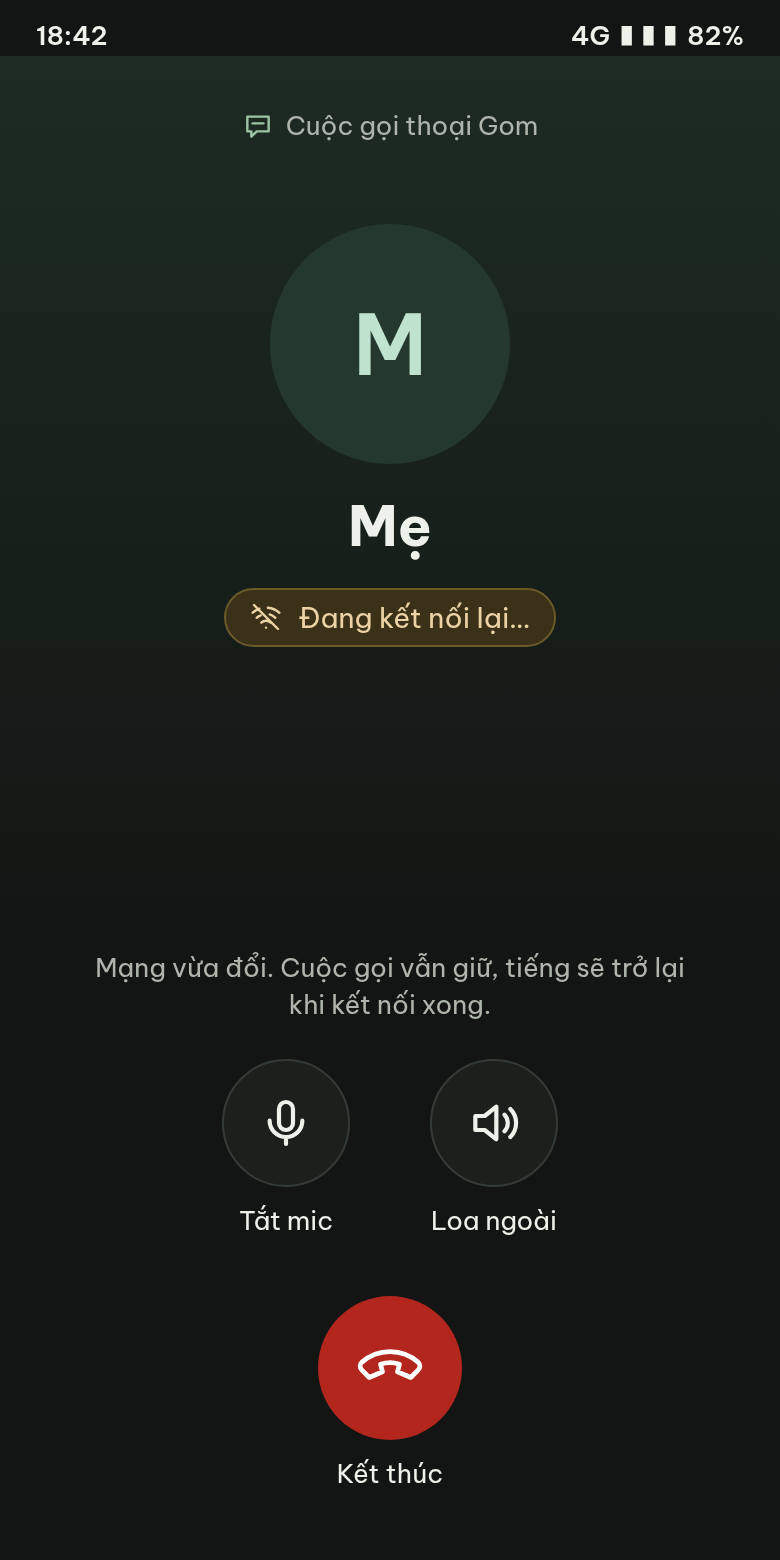
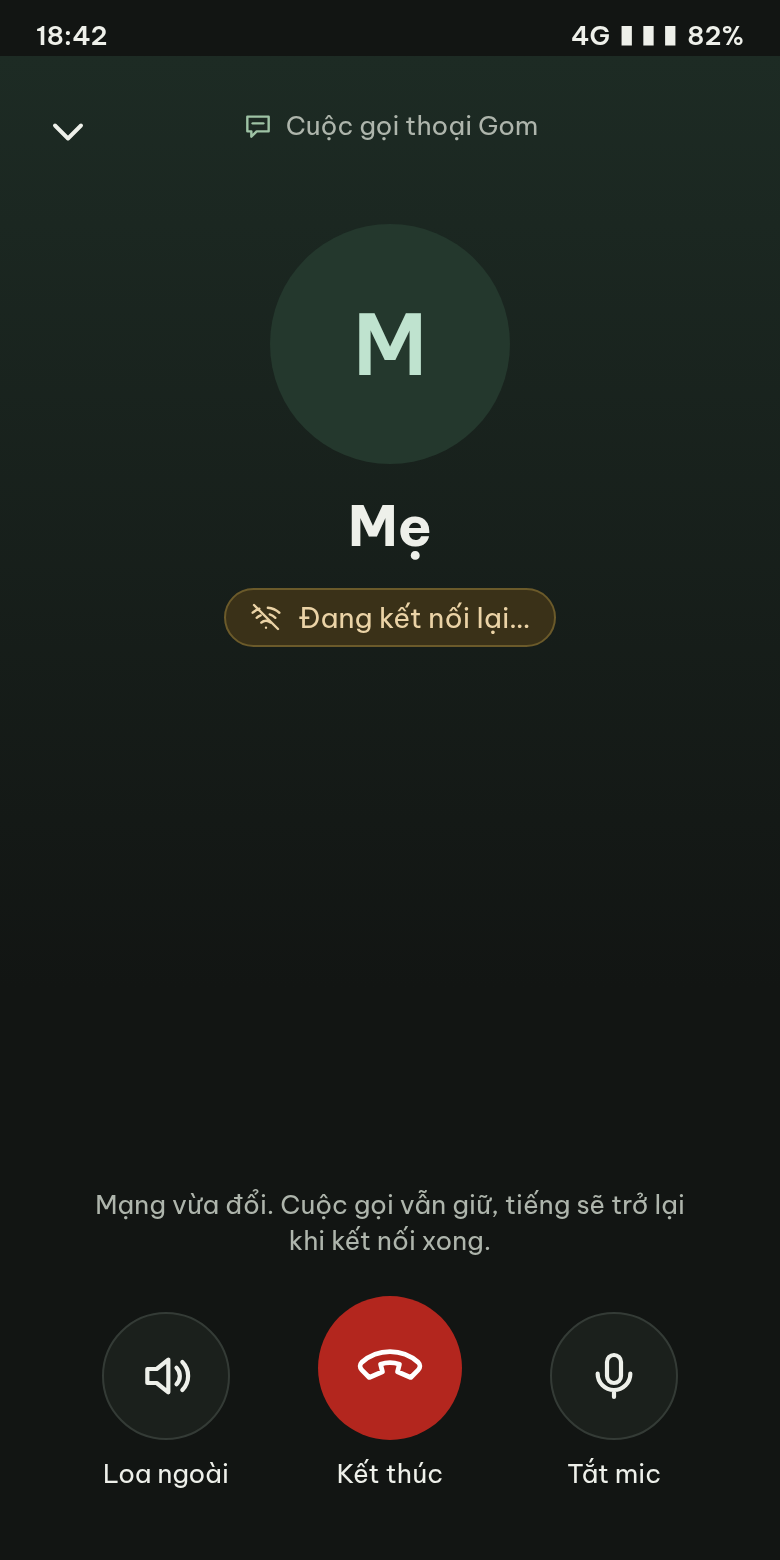
Web call mockups: one row of call buttons, the call bar, screens 31 to 35
- design/source/calls.html: in a call, one row (speaker, end, mic; labels stay, a filled button is on); a minimise arrow;
  the web in a phone's browser and on a computer, ringing on a computer, and the call bar on a phone and a computer.
  Screens 21, 25, 26 and 27 exported again; 31 to 35 new, light and dark.
- design-notes.md rule 16, design/README.md.
- docs/voice-calls.md section 2b: calls on the web first, as agreed with H; PR order 8a to 8d. One line in decisions.md.

diff --git a/docs/voice-calls.md b/docs/voice-calls.md
@@ -33,7 +33,8 @@ A web page cannot make calls work like a phone's:
   audio routing, so no earpiece or Bluetooth choice); a Trusted Web Activity (Chrome's limits apply); React Native,
   Flutter or Compose Multiplatform (a rewrite of the interface, a weaker web version, and calls still need native code
   per platform; Compose Multiplatform's web target is Beta [stated: Kotlin docs]); a fully native app (three codebases).
-- **The web version stays** for iPhone and computers. Calls come to it later, working only while Gom is open.
+- **The web version stays** for iPhone and computers. Calls come to it now, before the app's, working only while Gom is open
+  (section 2b; H, 2026-11-26).
 
 Version 1 is **1:1 voice calls between friends**. Not in version 1: group calls (they need a media server, an SFU),
 video, recording, iPhone native.
@@ -148,6 +149,43 @@ video, recording, iPhone native.
 44. A device that registers for FCM stops its Web Push, so nothing arrives twice. The web half (the words in a
     notification) is built first, for browsers; this half comes with the app.
 
+## 2b. Calls on the web (agreed with H on 2026-11-26)
+
+H asked for web calls alongside the app. One call written in the page could also serve the app, with Kotlin keeping only what
+Android demands (the wake-up and full-screen ringing, Telecom, the phoneCall foreground service, the sound route). One open-source
+project showed a call in an app's web view under Telecom staying up five minutes with the screen off in Doze, on an Android 16
+emulator only (no real microphone, earpiece or Bluetooth) [stated: selfhost-unihub pull request 164, 22 November 2026]; whether
+a web view's call follows `setCommunicationDevice` is not known. So web calls come first, and a test on a Samsung phone decides
+the app's way.
+
+1. A person can be called while one of their pages that takes calls is open: the page says so as its socket connects
+   (`/ws?calls=1`, keeping the socket's rule of taking only "sync"). The app's FCM registration stops counting until the app
+   takes calls; until then the app's web view says nothing, shows no call button and ignores incoming calls (it has no
+   microphone permission). A closed tab does not ring; the missed-call notification still comes.
+2. Every page of the person that takes calls rings (decision 11): answering on one stops the others.
+3. Browsers on phones too, iPhone included; the call says "Giữ Gom trên màn hình trong lúc gọi", since a browser in the
+   background loses the microphone.
+4. `Permissions-Policy` becomes `microphone=(self)` (decision 42).
+5. Only the chat page takes calls; Settings, Friends, a group's page and the others are pages of their own, so going to one
+   ends a call. During a call the page's own update waits, leaving asks first (the browser's question), and a page closed
+   anyway hangs up on its way out so the other side is not left waiting.
+6. A ring made in the page (Web Audio, no sound file) and the tab's title; if the browser blocks the sound until the person has
+   touched the page, the ringing screen is still there.
+7. Each offer and answer waits up to 3 s for its addresses, then goes with what it has (no trickle ICE, as agreed in 2a).
+8. After a network change only the caller restarts the connection (`restartIce()` and a new offer through `/sdp`), when it
+   stays down about 2 s or fails, so the two never offer at once.
+9. At 2 h 50 min the page asks for a fresh relay login, applies it and restarts (decision 22).
+10. A microphone refused: "Gom cần micro để gọi" with how to allow it; the call does not start, or a ringing one is declined.
+11. With no relay set up, a direct connection only (decision 24); if that fails, "Không kết nối được".
+12. The screens: one row of three in a call (speaker, end, mic; the web has no speaker choice), a minimise arrow, and the call
+    bar across the top of the chat page (name, time, a crossed mic when muted, a red end button; a tap brings the call back).
+    Someone calling can minimise while it rings; an incoming call comes full size. Rule 16 of `design/design-notes.md`,
+    screens 21 to 35.
+13. In the app later, if its calls run in the web view, the same bar inside it; outside the app, Android's own ongoing-call
+    notification.
+
+Not known yet: whether Chrome and Samsung Internet on Android play a web call through the earpiece or the speaker.
+
 ## 3. Cloudflare TURN, the facts (docs updated June to November 2026 [verified: developers.cloudflare.com])
 
 - **Price:** $0.05 per GB, counting only what Cloudflare sends to the phones; the first 1,000 GB a month free, shared
@@ -214,7 +252,10 @@ video, recording, iPhone native.
 6. **Android, calls:** `core-telecom`, the WebRTC library, the phoneCall foreground service, the incoming full-screen
    screen, the call screen, ICE restart, renewing logins.
 7. **Android, release:** the Samsung sleep guide, the update check, the Play listing and declarations.
-8. **Later:** calls in the web version.
+8. **Web calls** (section 2b; H, 2026-11-26), before 6: **8a** the mockups (screens 31 to 35, the one-row buttons, the call
+   bar); **8b** the server: who can take a call; **8c** the page: calling, ringing, answering, the call screen; **8d** the page:
+   the call bar, the network-change restart, renewing relay logins. Then a release. Then a test APK on a Samsung phone,
+   never merged, decides whether the app's calls run in its web view or natively (6).
 
 ## 6. Checklist for each app build (on a Samsung phone)
 

diff --git a/design/design-notes.md b/design/design-notes.md
@@ -88,7 +88,7 @@ Be Vietnam Pro (400, 600, 700), self-hosted from `design/source/fonts/`. Body 15
 13. **Notifications** are per device, switched on in Settings, never on by default. A notification says who wrote and where and, unless the device chose less, the first 100 characters of the message (a sticker, pictures, videos or files: what kind); at the quietest level just "Tin nhắn mới". A message taken back replaces its notification. A muted conversation is silent; mute lasts a while or until turned back on.
 14. **The conversation menu** ("⋯" on a row, a right-click, or a finger held on a row for a second) is the person's own: pin to the top (five at most), mark read or unread (a mark only; the read position others may see never goes back), mute, make a group with this friend (one-to-one chats), hide until something new is said ("Hoàn tác" offered for a few seconds after; a search above the list still finds it under "Đã ẩn", and opening it, from there or anywhere else, brings it back), and delete for me (asked first; everything so far is gone for them alone). No categories, no "Khác" tab, no report: not needed at family size.
 15. **The owner's storage page** shows the disk, the database, and sizes by group, by sender, and for one-to-one chats only together (never who talks to whom). Trimming old pictures and files, or old messages, takes a preview and the word "Delete" typed; it is gone for good, backups included. A trimmed picture or file leaves "Ảnh/Tệp không còn khả dụng" in its message; each conversation that lost something gets a line saying so, naming nobody.
-16. **Voice calls (Android app; not built yet; plan in `docs/voice-calls.md`).** One-to-one, friends only, from the phone button in a friend's chat header; the web shows no button. The ringing, in-call and ended screens are the app's own and follow the theme (a sage tint at the top), with a red round button to end or decline and the button colour to answer, Decline on the left. Over the lock screen with the quietest notification level the name is hidden ("Cuộc gọi đến", "Mở khóa để xem ai gọi"). While the phone is in use, an incoming call is Android's own call notification: Gom sets only its name, picture and two buttons. With a headset connected, the sound button names where the sound goes and opens a choice (phone, speaker, headset). A network change shows "Đang kết nối lại…" in amber without ending the call. Each call leaves a card on the caller's side of the chat, worded for the one reading it: "Cuộc gọi thoại · 3:05"; to the caller "Không trả lời", "Cuộc gọi bị từ chối", "Máy bận"; to the person called "Cuộc gọi nhỡ" (red, unread, with "Gọi lại"; also for a call that found them busy) or "Bạn đã từ chối"; to both "Không kết nối được". Only a missed call offers "Gọi lại" on its card.
+16. **Voice calls (not built yet; plan in `docs/voice-calls.md`).** One-to-one, friends only, from the phone button in a friend's chat header. In the Android app; on the web while a Gom page is open (the chat page: going to another page ends the call, so it asks first). The ringing, in-call and ended screens follow the theme (a sage tint at the top), with a red round button to end or decline and the button colour to answer, Decline on the left. In a call one row of three: the speaker on the left (with a headset connected, its name, opening a choice of phone, speaker, headset), the red end button in the middle, the mic on the right; labels stay the same ("Loa ngoài", "Tắt mic") and a filled button is on. The web cannot choose the speaker, so its left place stays empty and end keeps the middle. A down arrow at the top left (or Android's back) minimises the call to a bar in the button colour across the top of the chat page, pushing it down: name, time, a crossed mic when muted, and a small red end button; a tap anywhere else on it brings the call back. Someone calling can minimise while it rings; an incoming call always comes full size. On a computer the call is a card over the chat and minimises to the same bar; ringing there is the card with Decline and Answer, a sound and the tab's title. In a phone's browser the call says "Giữ Gom trên màn hình trong lúc gọi." Over the lock screen with the quietest notification level the name is hidden ("Cuộc gọi đến", "Mở khóa để xem ai gọi"). While the phone is in use, an incoming call is Android's own call notification: Gom sets only its name, picture and two buttons. A network change shows "Đang kết nối lại…" in amber without ending the call. Each call leaves a card on the caller's side of the chat, worded for the one reading it: "Cuộc gọi thoại · 3:05"; to the caller "Không trả lời", "Cuộc gọi bị từ chối", "Máy bận"; to the person called "Cuộc gọi nhỡ" (red, unread, with "Gọi lại"; also for a call that found them busy) or "Bạn đã từ chối"; to both "Không kết nối được". Only a missed call offers "Gọi lại" on its card.
 
 ## Not drawn
 - The message menu opens on a right-click on desktop and a long press on a phone; the conversation menu on a row's "⋯", a right-click, or a one-second press; blocking is on the Friends page. None of these is drawn.

diff --git a/design/README.md b/design/README.md
@@ -1,6 +1,6 @@
 # Gom: design mockups
 
-Drawn 2026-11-24, voice calls added 2026-11-26. Thirty screens, each in light and dark: desktop at 1180 px wide, phone at 390 px wide. All text is Vietnamese; names, IDs, orders and the QR code are samples.
+Drawn 2026-11-24, voice calls added 2026-11-26. Thirty-five screens, each in light and dark: desktop at 1180 px wide, phone at 390 px wide. All text is Vietnamese; names, IDs, orders and the QR code are samples.
 
 ## The easiest way to look
 Open the images in `mockups/` (lossless WebP; any browser or GitHub shows them). Dark mode is in `mockups/dark/` under the same file names.
@@ -16,6 +16,7 @@ Open the images in `mockups/` (lossless WebP; any browser or GitHub shows them).
 | 16 image viewer, 17 Ops room | Images and the staff-only Ops room |
 | 18 message menu, 19 recalled messages and replying | Message actions |
 | 21 calling, 22 and 23 ringing on the lock screen (name hidden, shown), 24 ringing while the phone is in use, 25 in a call, 26 where the sound goes, 27 reconnecting, 28 call ended, 29 call rows in a chat, 30 a missed call in the list | Voice calls, in the Android app (screen 24 is Android's own notification, sketched) |
+| 31 in a call in a phone's browser, 32 in a call on a computer, 33 ringing on a computer, 34 and 35 the call bar (phone, computer) | Voice calls on the web, and the bar a minimised call becomes |
 
 `design-notes.md` has the colours, type, shapes and the product rules the screens assume.
 
@@ -38,13 +39,13 @@ Each page can show one frame alone: add `?frame=<index>&theme=light|dark` to the
 | `main-chat.html` | desktop (01), chat list (02), thread (03) |
 | `onboarding-and-friends.html` | sign up (04), sign in (05), invite expired (06), new conversation (07), add friend (08), group info (09), add members (10), add friend dialog on desktop (11) |
 | `states.html` | empty list (12), loading list (13), reconnecting (14), send failed (15), image viewer (16), Ops room (17), message menu (18), recalled and replying (19), no conversation open on desktop (20) |
-| `calls.html` | calling (21), lock screen with the name hidden (22) and shown (23), phone in use (24), in a call (25), where the sound goes (26), reconnecting (27), ended (28), call rows (29), missed call in the list (30) |
+| `calls.html` | calling (21), lock screen with the name hidden (22) and shown (23), phone in use (24), in a call (25), where the sound goes (26), reconnecting (27), ended (28), call rows (29), missed call in the list (30), web in a phone's browser (31), web on a computer (32), ringing on a computer (33), call bar on a phone (34) and a computer (35) |
 
 Window sizes: phone 390 x 780 (screen 08 is 390 x 960, screens 02 and 03 are 390 x 760), desktop 1180 x 700. The images are made at 2x for phones and 1x for desktop, then saved as lossless WebP.
 
 ## Things that are not obvious
 - **The mockups are a snapshot of 2026-11-24, before most of the app was built.** Stickers and emoji, profile pictures, notifications, account deletion and the owner's storage page are not drawn, and screen 17 (the "Ops room") shows a plan that changed (rule 7 in `design-notes.md`). The rules in `design-notes.md` and `docs/decisions.md` are what the app follows.
-- **The call screens (21 to 30) are a plan, drawn 2026-11-26 before any of it is built.** They are native screens of the Android app, drawn in Gom's look; screen 24 is Android's own call notification, which One UI draws its own way, so only its words, picture and buttons are Gom's. The icons for calls were drawn for these mockups.
+- **The call screens (21 to 35) are a plan, drawn 2026-11-26 before any of it is built.** 21 to 30 are the Android app's, drawn in Gom's look (native or in its web view, to be decided by a test on a Samsung phone); 31 to 35 are the web's. The in-call buttons became one row (speaker, end, mic) and the minimise arrow and the call bar were added the same day (H); screen 24 is Android's own call notification, which One UI draws its own way, so only its words, picture and buttons are Gom's. The icons for calls were drawn for these mockups.
 - **Each screen shows one moment, not behaviour.** Hover, focus and pressed looks follow the Peekbox rules in `design-notes.md` and are not drawn per screen. Animation, tablet width and the desktop message menu are not drawn.
 - **No screen shows the password reset, the list of your sessions, or the display-name field yet.** Rule 11 in `design-notes.md` says they exist; they are not drawn.
 - **The QR code is a fake pattern** and does not scan.

diff --git a/docs/decisions.md b/docs/decisions.md
@@ -192,3 +192,4 @@ One line each: the decision, then the reason.
 - 2026-11-26: Releases (H). Semantic versions, one for the whole repository (server, pages and the Android app, whose Play `versionName` will be the release it ships in): a minor version for anything new to the people using Gom, a patch version for fixes only, a major version only when people or operations must act (an app and a server that can no longer work together). A release is cut after a promotion to production and tags the commit production runs, so a release is what the family has; each tag is asked for, as a push to main is. 1.0.0 is `25b355749d8f`, everything from the first pull request to #150, with a summary written by hand above GitHub's generated list: the old pull requests have no labels and are not labelled after the fact. From then on each pull request carries one type label (`enhancement`, `bug`, `ci`, `documentation`) and `.github/release.yml` sorts the generated notes by it; one label each, since GitHub's docs do not say how a pull request with two matching labels is listed. No files are attached to a release: the images are in GHCR and the app goes through Play.
 - 2026-11-26: GIFs from the keyboard in the Android app (5c; H). A plain WebView offers keyboards no picture types, so Gboard's GIF button said the app "does not support images here" (as in Chrome, where only a flag changes it). The app's `GomWebView` offers `image/gif`, `image/webp`, `image/png` and `image/jpeg` (androidx's receive-content API), reads what the keyboard commits at once, while Android lets it, and sends it to the page as `{t: 'image', type, data}` (base64), added to bridge protocol 1 without a new version since pages ignore what they do not know. The page takes it exactly as a pasted picture, into the open conversation and only while its message box has the focus; elsewhere it is dropped. The page's hello tells the app the largest picture the server takes (`data-limits`), so the app never reads more than that and holds no copy of the limit; a larger one is not taken. The web version is unchanged.
 - 2026-11-26: The release number in one place (H). `VERSION` at the root holds it ("1.0.0"); the build reads it (`Directory.Build.props`, which stops the build on anything but `1.2.3`, and leaves the commit out of the informational version), the server writes it on every page (`data-version`), Settings shows "Phiên bản v1.0.0" instead of the script's fingerprint (which still drives the update check), and the Android app takes it as its version name. A release is a pull request that changes `VERSION` and adds its "What's new" entry to `docs/releases.md` (new, fixes), deployed, promoted, then tagged; so production shows the number it was released as, and staging between releases shows the last one.
+- 2026-11-26: Calls on the web first (H; `docs/voice-calls.md` section 2b, PRs 8a to 8d). Web calls are wanted anyway, can be tried on any computer now, and the same page code may serve the app: a test on a Samsung phone then decides whether the app's calls run in its web view (Kotlin keeping the wake-up, Telecom, the foreground service and the sound route) or natively as planned. A page that takes calls says so when its socket connects; only the chat page does, so the others ask before leaving during a call. The call screens became one row (speaker, end, mic; no speaker on the web) with a minimise arrow and a bar across the top of the chat page that brings the call back (H, after Zalo's).
